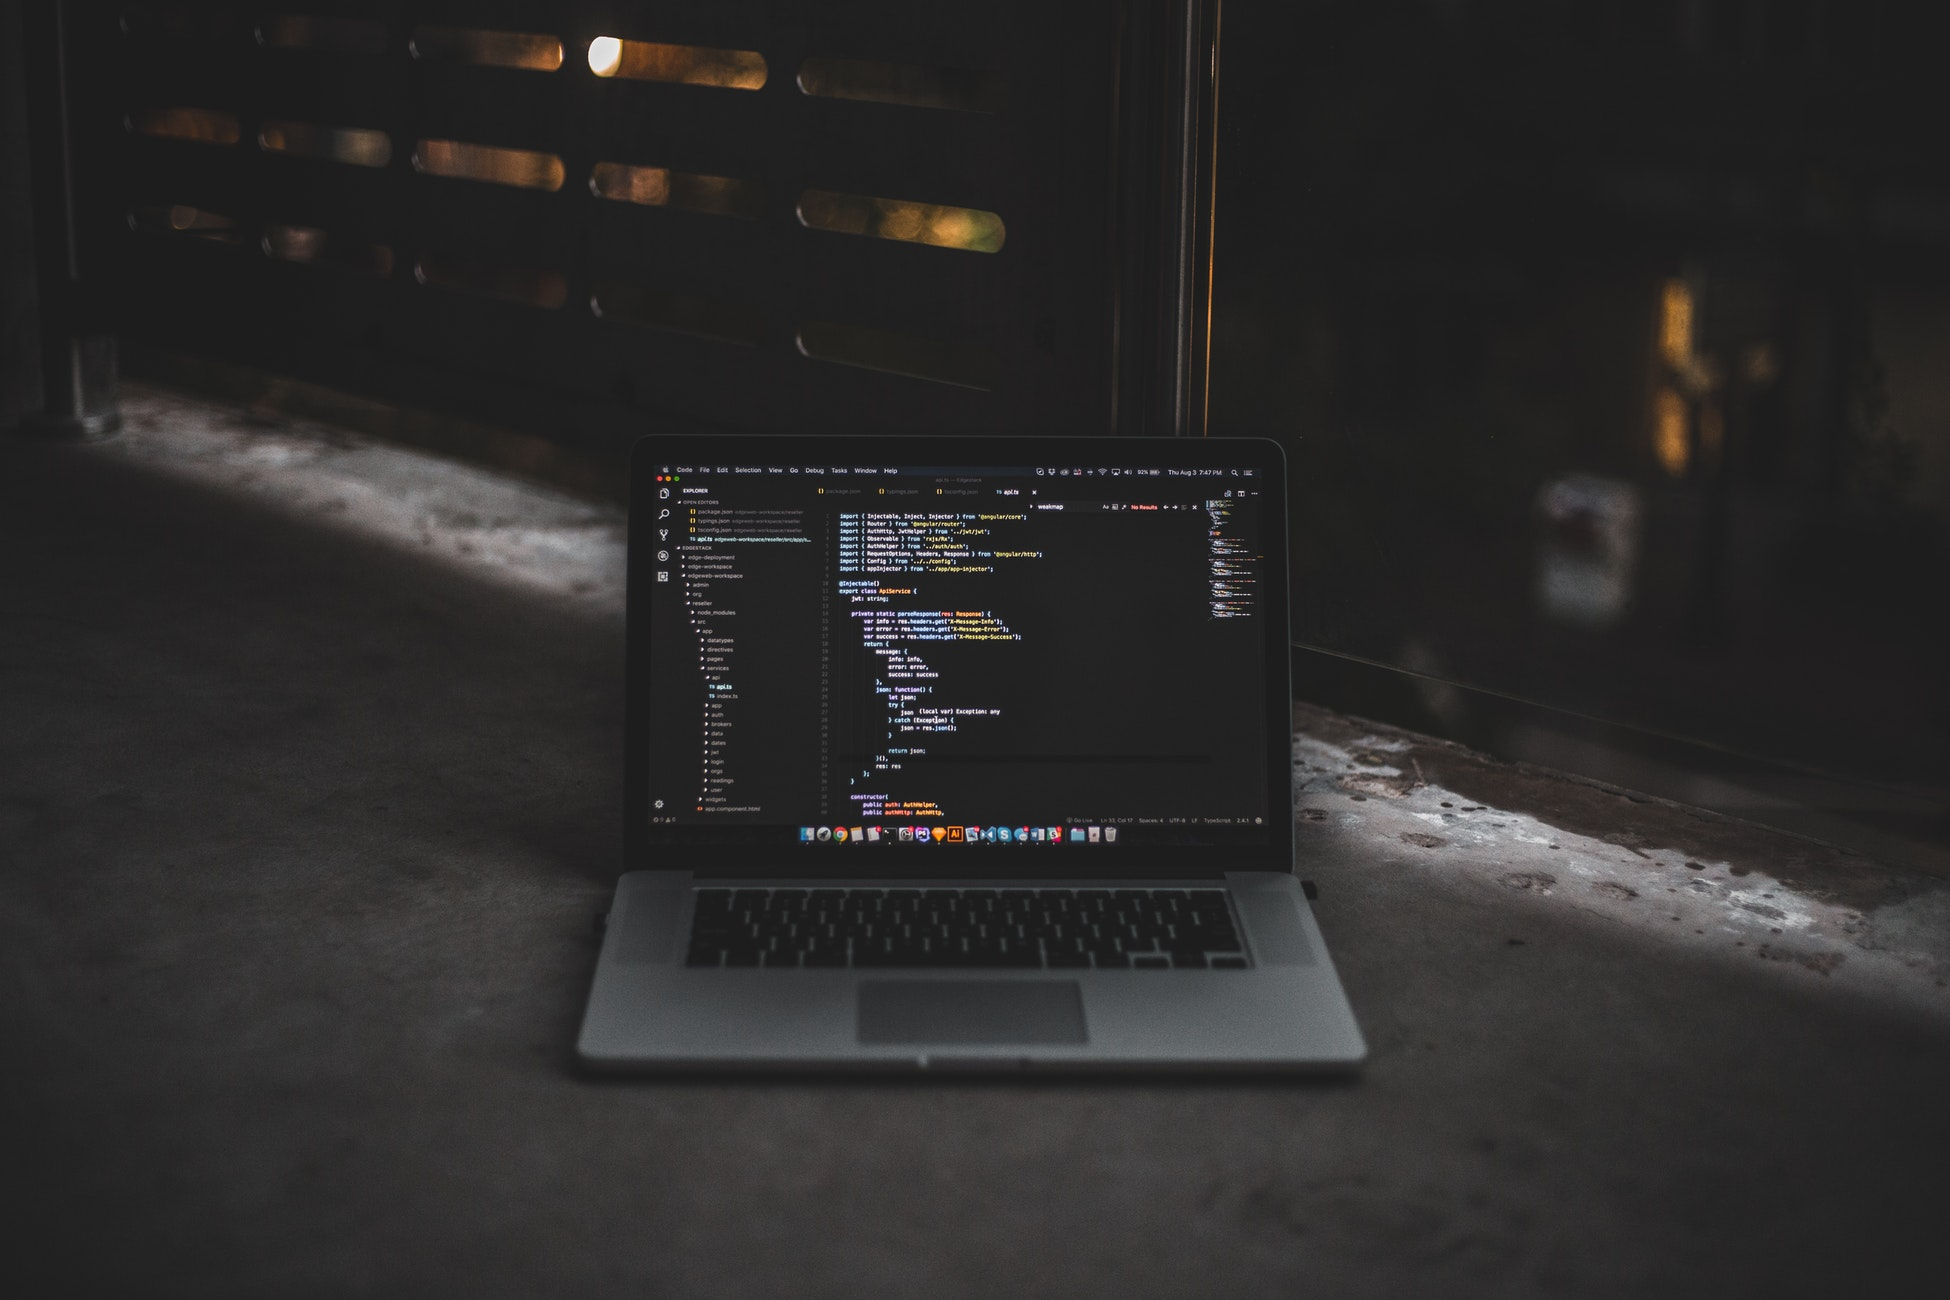
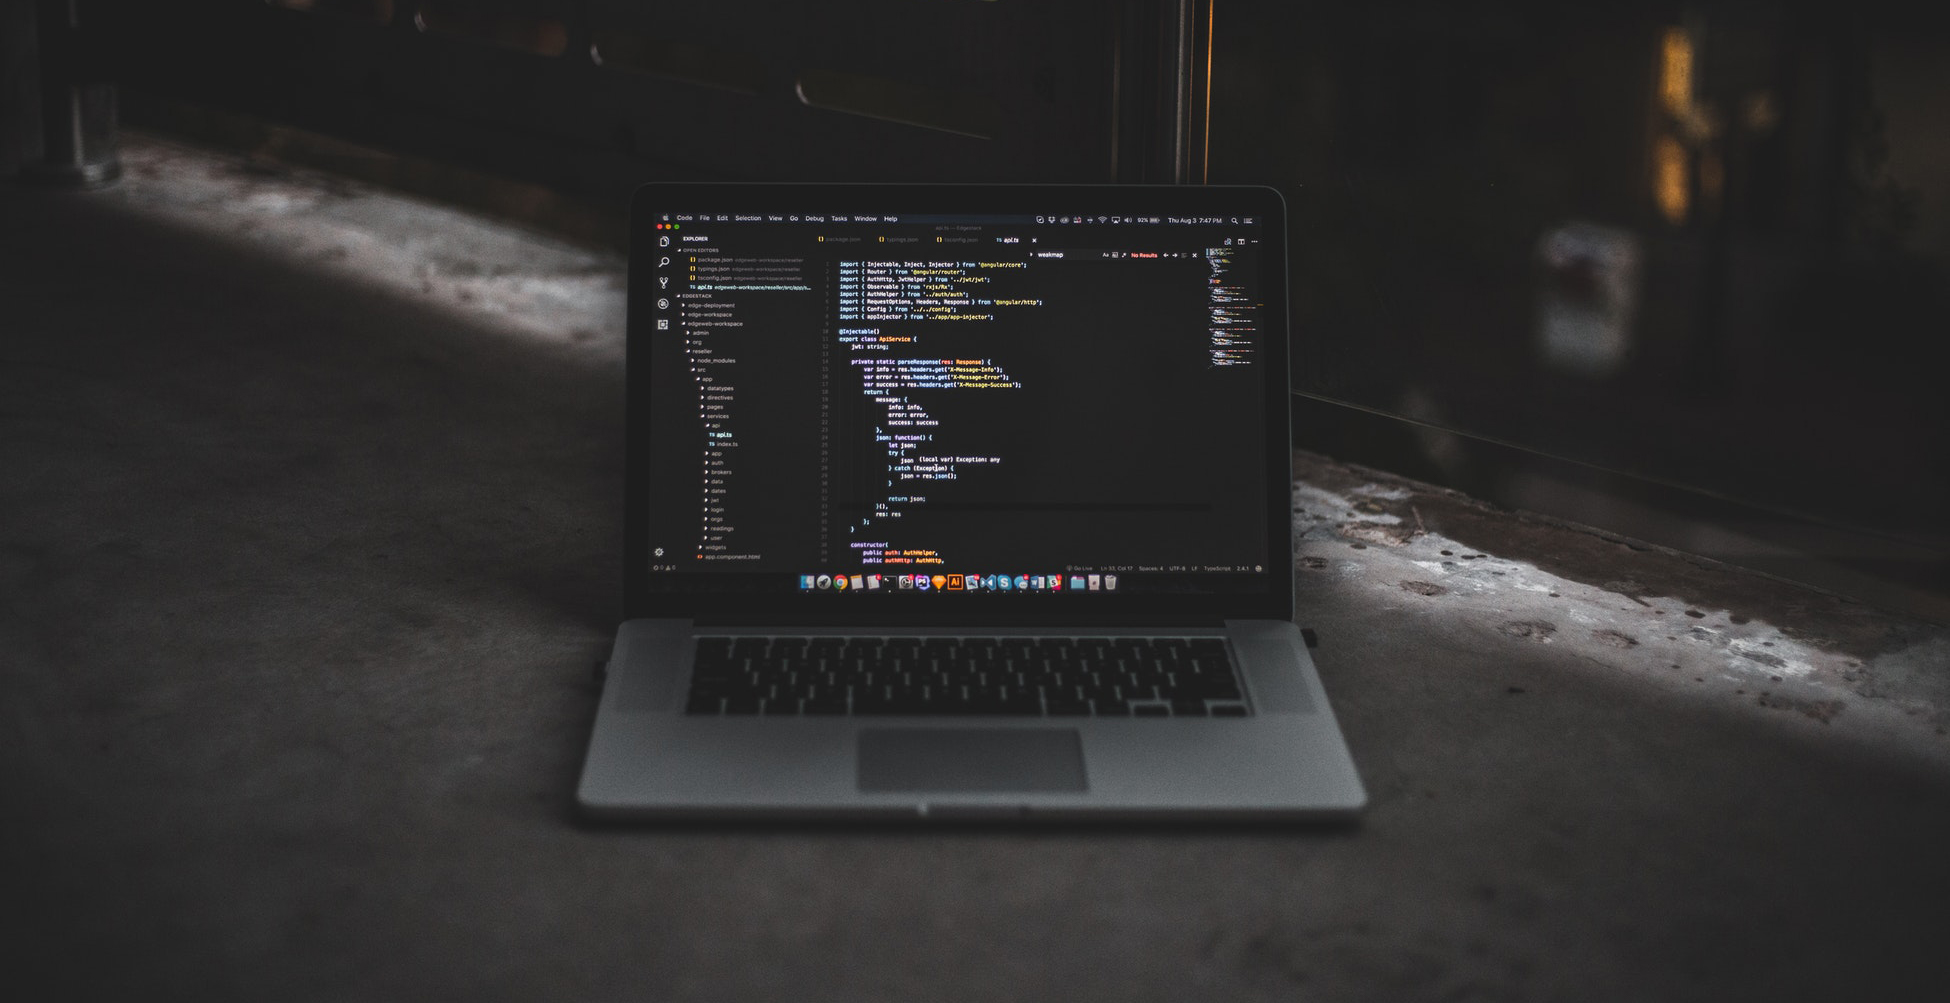
Changes size of section-image & sections.

diff --git a/styles/main.css b/styles/main.css
@@ -22,14 +22,14 @@ a{
 }
 
 #image-section{
-    height: 1300px;
+    height: 1000px;
     background-image: url(" ../images/software-development.jpg");
     background-repeat: no-repeat;
     /*background-size: cover;*/
 }
 
 #main-section {
-   height: 600px;
+   height: 1000px;
     width: 100%;
     background: rgba(30,30,30,1.00);
 }
